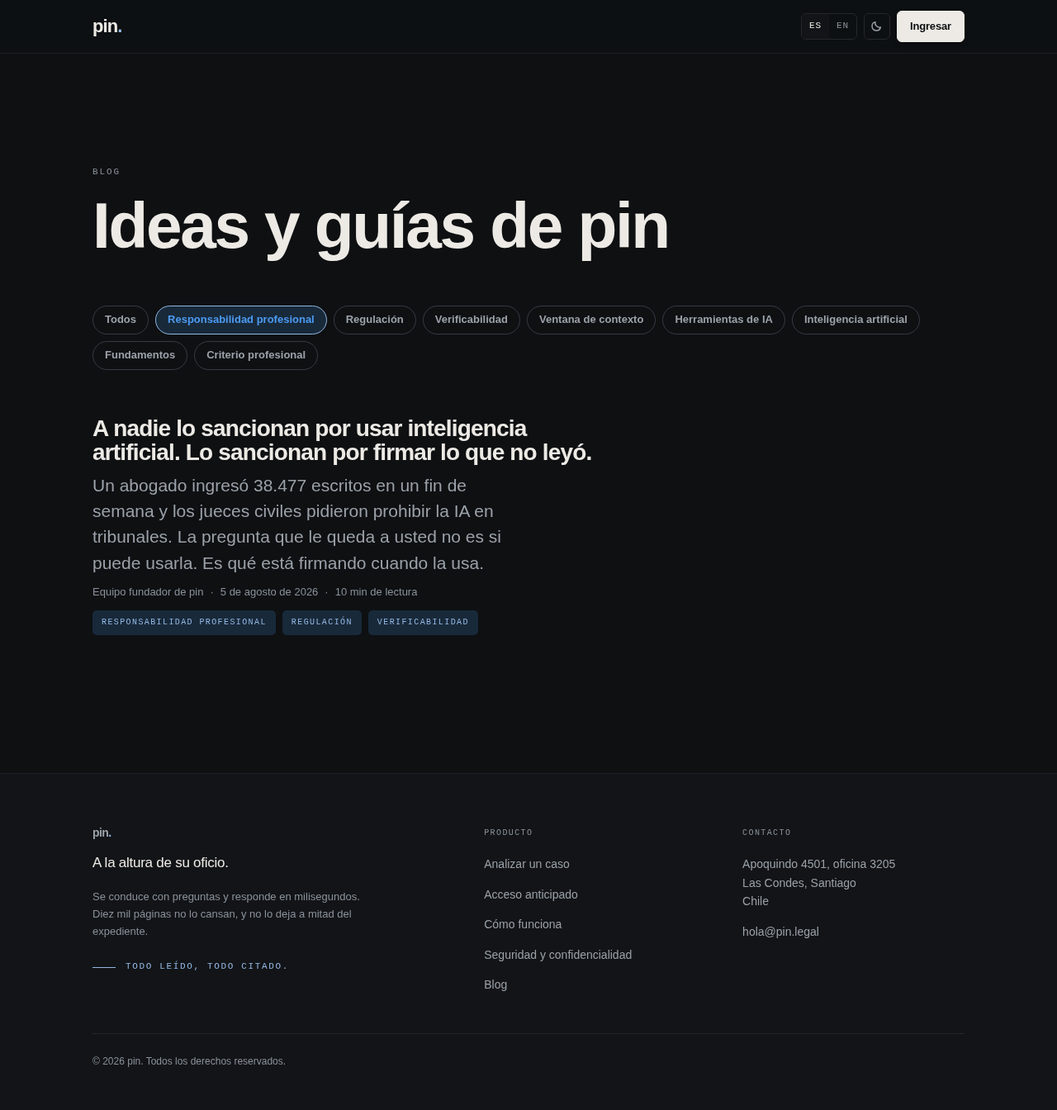
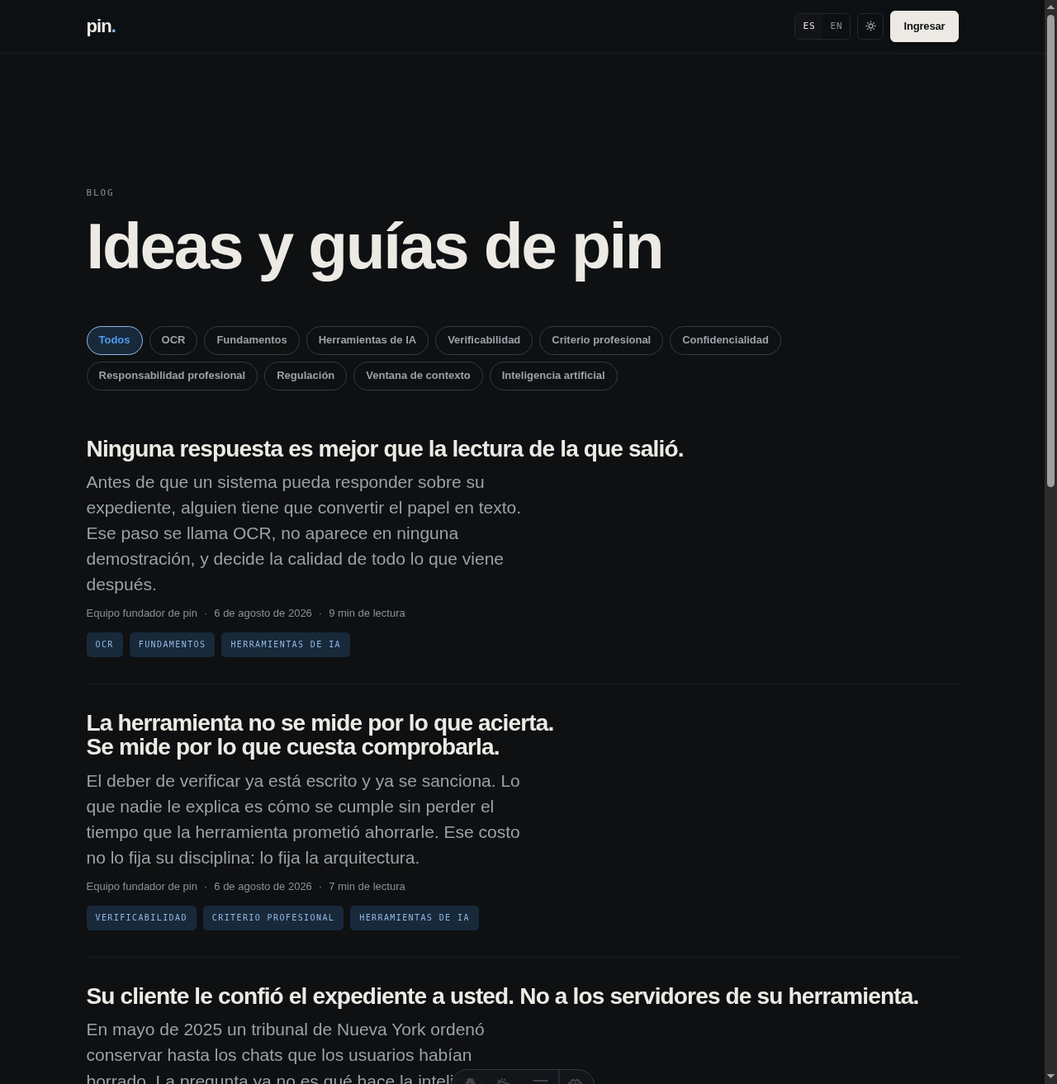
feat(blog): publica posts 4-6 — verificación, confidencialidad, OCR (I-010) (#17)
* feat(blog): publish posts 4-6 — verification, confidentiality, OCR (I-010)

Owner-authored copy, shipped as drafted (blogposts.zip). Only structural
maquetación applied to match the existing 3-post pattern: dropped the
redundant body H1 (title already renders via BlogLayout/frontmatter) and
converted internal cross-links from absolute pin-landing.github.io URLs to
the established relative ../slug/ form. No prose edited, no typos found.

Two owner-suggested tags extend the existing taxonomy: Confidencialidad
(post 5) and OCR (post 6) — both on-topic, flagged in I-010 rather than
silently added.

Adds I-010 under epic E01 (rule 12: substantial work gets an issue before
its PR).

* docs(evidence): screenshots of blog posts 4-6, listing + each post, light/dark

Committed under design/evidence/, following the blog-<slug>-es-<theme>.png
pattern from PR #14/#15. Captured against the local dev server via headless
Chrome + CDP (Emulation.setEmulatedMedia) since the claude-in-chrome
extension was unresponsive this session — a live Chrome instance already
running on this machine was silently absorbing the extension's automation
calls; screenshots use an isolated --user-data-dir instead.

* docs(planning): marca criterios de aceptación verificados en I-010

Should de la review adversarial del PR #17: los checkboxes quedaron sin
marcar pese a que gate, build y astro check pasaron (reverificado
independientemente por el revisor con exit 0).

---------

diff --git a/src/content/blog/es/como-se-lee-un-expediente-escaneado.md b/src/content/blog/es/como-se-lee-un-expediente-escaneado.md
@@ -1,0 +1,74 @@
+---
+title: "Ninguna respuesta es mejor que la lectura de la que salió."
+slug: "como-se-lee-un-expediente-escaneado"
+excerpt: "Antes de que un sistema pueda responder sobre su expediente, alguien tiene que convertir el papel en texto. Ese paso se llama OCR, no aparece en ninguna demostración, y decide la calidad de todo lo que viene después."
+publishDate: 2026-08-06
+author: "Equipo fundador de pin"
+tags: ["OCR", "Fundamentos", "Herramientas de IA"]
+draft: false
+readingMinutes: 9
+---
+
+Abra cualquier tomo de una carpeta investigativa real y mire lo que hay: un parte policial escaneado torcido, un timbre estampado encima de la fecha, una fotocopia de una fotocopia donde la tinta ya es gris, un oficio con anotaciones a mano en el margen, y de vez en cuando una foja entera dada vuelta. Ahora intente Ctrl-F.
+
+No encuentra nada porque no hay nada que encontrar. **Su expediente no es texto. Es papel fotografiado.** Para un computador, cada una de esas fojas es una imagen —una grilla de píxeles—, tan buscable como la foto de un asado. Antes de que cualquier sistema pueda responderle una sola pregunta sobre ese material, alguien tiene que convertir la imagen en texto. Ese paso tiene nombre, tiene cincuenta años de historia y no aparece en ninguna demostración comercial: se llama OCR, reconocimiento óptico de caracteres.
+
+Este artículo existe porque ese paso invisible decide la calidad de todo lo que viene después, y porque casi nadie le pregunta a su proveedor cómo lo hace. Al final va a tener la pregunta exacta que hay que hacer. Antes, conviene entender qué se está preguntando.
+
+## Cómo se mide una lectura
+
+El OCR se mide, y la métrica principal es de una honestidad brutal: la tasa de error por carácter —CER, por su sigla en inglés—. Cuántos caracteres, de cada cien, el sistema leyó mal.
+
+Los números para calibrar la intuición. Sobre texto impreso razonablemente limpio, un buen motor moderno se equivoca poco: el error queda en un dígito bajo. Sobre manuscrito —la anotación al margen, la declaración tomada a mano, la firma con fecha—, un motor clásico de OCR se derrumba: en nuestras mediciones sobre corpus judicial real, se acerca a equivocar **uno de cada dos caracteres**. No es que lea mal. Es que, para efectos prácticos, no lee.
+
+Y aquí la observación que vuelve todo esto asunto suyo y no de ingenieros: no todos los caracteres valen lo mismo. Un error de carácter en la prosa de un considerando es una molestia que el contexto repara. El mismo error en un RUT es otra persona. En una fecha, es otro plazo. En un monto, es otro delito. En un número de foja, es una cita que apunta a ninguna parte. **Los datos que a usted le importan de un expediente —nombres, fechas, cédulas, montos, fojas— son exactamente los que un error de un solo carácter destruye por completo**, porque son los datos donde el contexto no ayuda a reconstruir nada.
+
+## El error no se queda en la página
+
+Si el daño terminara en la página mal leída, sería un problema acotado. No termina ahí, y esto ya está medido con rigor académico.
+
+Un equipo presentó en 2025 un banco de pruebas —[OHRBench](https://arxiv.org/abs/2412.02592)— construido para responder una sola pregunta: ¿qué le pasa a un sistema de respuestas sobre documentos cuando el OCR que le preparó el material se equivocó? La conclusión fue categórica: evaluadas las soluciones de OCR disponibles, **ninguna resultó suficiente para construir una base de conocimiento de calidad**, y hasta las mejores arrastraron una pérdida de exactitud del orden del 14% en las respuestas finales. El error de lectura se propaga en cascada: contamina el índice, desvía la búsqueda, y llega a la respuesta convertido en otra cosa.
+
+Y esa «otra cosa» es la parte peligrosa. Porque el sistema no responde peor sobre texto mal leído. **Responde igual de fluido, igual de seguro y con la misma redacción impecable** —el [primer artículo de esta serie](../que-es-machine-learning/) explicó por qué la fluidez está garantizada y la exactitud no—. Un OCR que leyó «22.06.2004» donde el papel dice «22.08.2004» no produce un mensaje de error. Produce una cronología equivocada, contada con total naturalidad, que usted solo detecta si abre la página. La basura que entra no sale como basura. Sale como prosa.
+
+## El estándar de la industria, y sus tres defectos
+
+Lo que la industria hace por defecto es comprensible, porque es lo más simple: se elige un motor de OCR —uno—, se le pasa todo el documento, y el texto que salga es el que hay. Cuando el volumen aprieta, se contrata el OCR como servicio en la nube: las páginas se envían a la API de un tercero, que devuelve el texto. Funciona razonablemente para lo que esas herramientas fueron construidas: documentos limpios, nacidos digitales, en inglés.
+
+Contra un expediente penal chileno, ese estándar falla tres veces, y las tres fallas son de naturaleza distinta.
+
+**Falla de motor: ninguno gana en todas las páginas.** Esto lo medimos antes de decidir nada, y el resultado fue inapelable: el motor rápido y preciso en impreso se derrumba en el manuscrito; el modelo de visión que rescata el manuscrito es demasiado lento y caro para pasarle las diez mil páginas completas. Un expediente real trae ambas cosas mezcladas foja por foja. Elegir un solo motor es elegir en qué parte del expediente leer mal.
+
+**Falla de arquitectura: el OCR en la nube resuelve la lectura creando el problema del [artículo anterior](../que-pasa-con-su-expediente-cuando-lo-sube/).** Enviar las fojas, una por una, a la API de un tercero es exactamente la operación que su deber de reserva le exige mirar con lupa. Que el sobre sea página a página no cambia que el contenido completo del expediente terminó, página a página, en servidores ajenos.
+
+**Falla de honestidad: el silencio.** Es la peor de las tres. Cuando una página no se puede leer —demasiado oscura, demasiado torcida, manuscrito ilegible—, el estándar de la industria es saltarla y seguir. El sistema no miente activamente; hace algo más corrosivo: deja que usted asuma que «procesado» significa «leído». Y sobre esa asunción usted construye la confianza de que si algo importara, habría aparecido.
+
+## Lo que construimos, y por qué lo decidimos así
+
+Nuestra respuesta a las tres fallas cabe en tres decisiones, y las tres se tomaron midiendo, no opinando.
+
+**Primera: se lee por página, no por expediente.** Cada foja pasa primero por un triaje que decide su ruta. Si la página trae texto digital embebido, se toma directo: lectura perfecta y gratis. Si es impreso escaneado legible, va al motor clásico: rápido, barato, error bajo. Si es manuscrito o un escaneo pobre, escala a un modelo de visión —la tecnología cara— que en nuestras mediciones lee ese material con **la mitad del error** de un OCR corriente. Mejor, no perfecto; sobre eso volvemos enseguida. El umbral que decide cuándo una página escala no se fijó a ojo: se calibró con datos, sobre corpus judicial real, y el resultado operativo es que **cerca de ocho de cada diez páginas se leen por la ruta rápida**, mientras la fracción difícil va a una cola diferida donde la máquina cara trabaja sin bloquear al resto. Es la misma lógica con la que un estudio asigna trabajo: lo estándar al procedimiento estándar, lo difícil al especialista, y nadie espera al especialista para avanzar con lo demás.
+
+**Segunda: la procedencia se escribe desde el primer carácter.** En el momento en que un fragmento de texto nace del OCR, queda registrado de qué documento salió, de qué foja, y de qué lugar exacto dentro de la foja. El [cuarto artículo de esta serie](../como-se-verifica-una-respuesta-de-ia/) explicó por qué esto no se puede agregar después: la procedencia se guarda al leer o no existe. Por eso se guarda al leer.
+
+**Tercera: la transcripción nunca reemplaza al papel.** Todo lo anterior asume algo incómodo y cierto: el OCR se va a equivocar. Con tasas de error mayores que cero y cientos de miles de caracteres, algún RUT va a salir cambiado. La pregunta de diseño no es cómo impedirlo —nadie puede— sino cómo lograr que ese error no pueda convertirse en una afirmación que usted firme sin verla. Nuestra respuesta: cada cita abre la **imagen real de la página**, con el pasaje señalado sobre la tinta. La verificación es contra el papel, no contra nuestra lectura del papel. Si el OCR leyó mal, usted lo ve en el mismo clic con que verifica todo lo demás —y el error muere ahí, como error de lectura, en vez de viajar hasta su escrito convertido en hecho—.
+
+## El principio detrás de las tres: completitud comunicada
+
+Si tuviéramos que reducir nuestra política de OCR a una sola regla, es esta: **ninguna página se da por leída sin serlo.** El cien por ciento de las fojas termina el proceso clasificado en una de dos listas: leída —con su texto y su procedencia—, o declarada pendiente o ilegible, con su ubicación exacta, en un reporte que usted puede abrir.
+
+Puede parecer un detalle de interfaz. Es lo contrario de un detalle: es la diferencia entre dos promesas. El sistema que dice «leí todo» le está vendiendo una cobertura que no puede demostrar, y usted descubre los huecos cuando ya construyó encima. El sistema que dice «leí 9.986 fojas; estas 14 no, y son estas» le entrega algo que ningún resumen fluido reemplaza: **el mapa exacto de dónde tiene que mirar usted.** Catorce fojas se revisan a mano en una tarde. Lo que no se puede revisar es el hueco que nadie declaró.
+
+## Lo que sigue, en nuestros planes
+
+Tres frentes, en orden de importancia.
+
+El primero cierra el círculo del artículo anterior: llevar también el razonamiento —no solo la lectura y los índices, que ya corren donde el estudio decide— a modelos que se ejecutan localmente, para que exista el modo de operación totalmente aislado de red: un sistema al que se le puede desconectar el cable y sigue trabajando. El segundo es institucional más que técnico: los motores de OCR y de visión mejoran cada pocos meses, así que mantenemos un banco de pruebas propio, sobre corpus judicial real, contra el que cada candidato nuevo se mide antes de tocar el sistema —los motores rotan; la vara queda—. Y el tercero es el residuo duro: para la fracción que ninguna máquina lee bien hoy, una cola de rescate explícita, con revisión humana cuando haga falta, porque la promesa nunca fue «lo leemos todo». La promesa es que usted sabe, en todo momento y foja por foja, **qué se leyó, con qué calidad, y qué no.**
+
+## La pregunta para su proveedor
+
+No es «¿usa inteligencia artificial?» —el [primer artículo](../que-es-machine-learning/) ya estableció que eso no informa nada—. Ni siquiera es «¿qué OCR usa?», que suena técnica y se contesta con una marca.
+
+Es esta: **¿qué pasa con las páginas que no puede leer?**
+
+Escuche la respuesta con atención, porque solo hay tres posibles. Si le dicen «las leemos todas», acaba de aprender que los huecos existen y nadie se los va a declarar. Si le responden con un porcentaje de precisión, pregunte sobre qué material se midió —impreso limpio en inglés no es su expediente—. Y si le contestan «quedan listadas, aquí está el reporte, y cada cita abre la imagen de la página para que usted compruebe la lectura», entonces está frente a alguien que entendió lo mismo que usted entendió leyendo esta serie: que en este oficio no se firma la prosa. Se firma lo que consta en la foja.

diff --git a/src/content/blog/es/que-pasa-con-su-expediente-cuando-lo-sube.md b/src/content/blog/es/que-pasa-con-su-expediente-cuando-lo-sube.md
@@ -1,0 +1,64 @@
+---
+title: "Su cliente le confió el expediente a usted. No a los servidores de su herramienta."
+slug: "que-pasa-con-su-expediente-cuando-lo-sube"
+excerpt: "En mayo de 2025 un tribunal de Nueva York ordenó conservar hasta los chats que los usuarios habían borrado. La pregunta ya no es qué hace la inteligencia artificial con su expediente. Es dónde queda, quién lo retiene y bajo qué reglas."
+publishDate: 2026-08-06
+author: "Equipo fundador de pin"
+tags: ["Confidencialidad", "Responsabilidad profesional", "Regulación"]
+draft: false
+readingMinutes: 9
+---
+
+El 13 de mayo de 2025, una jueza federal de Nueva York ordenó a OpenAI conservar de manera indefinida todos los registros de salida de ChatGPT, [incluidos los chats que los usuarios ya habían borrado](https://openai.com/index/response-to-nyt-data-demands/). La orden se dictó en el litigio de derechos de autor que The New York Times mantiene contra la empresa, y alcanzó a los usuarios de las versiones gratuita, Plus, Pro y Team, y a la API sin acuerdo de retención cero. La empresa apeló, perdió, y la obligación rigió hasta el 26 de septiembre de 2025 —lo capturado en esa ventana sigue almacenado—. En noviembre, [el tribunal confirmó](https://thecyberexpress.com/openai-court-order-nyt-copyright-dispute/) que 20 millones de esas conversaciones, desidentificadas, pasaran a manos de los demandantes.
+
+Deténgase en la mecánica, porque es la parte que le concierne. Millones de personas apretaron «borrar» creyendo que borrar borraba. No era un hecho: era una promesa del proveedor, escrita en unos términos de servicio que casi nadie leyó. Y las promesas del proveedor ceden ante la orden de un tribunal, en un litigio que no es el suyo, en una jurisdicción que no es la suya, por un conflicto que no tiene nada que ver con usted. **Lo que usted sube deja de estar bajo su control en el momento en que termina la carga.** Todo lo demás —la retención, el borrado, el acceso de terceros— es cláusula, no física.
+
+Un detalle más, y es el que ordena todo este artículo: la versión Enterprise y los contratos con retención cero quedaron fuera de la orden. La protección existía. **No venía con la marca. Venía con el contrato** —y con la arquitectura que hay detrás del contrato—.
+
+## El deber que usted ya tenía, antes de que existiera la nube
+
+Nada de esto lo agarra sin reglas. Al contrario: pocas obligaciones del oficio son más viejas que esta.
+
+El secreto profesional no es una cortesía ni un hábito de discreción: es un deber cuyo titular es el cliente, no usted. El Código de Ética Profesional le dedica su artículo 7° y una sección entera —los artículos 46 a 64—, y el Código Penal, en su artículo 231, sanciona al abogado que descubre los secretos de su cliente. La carpeta investigativa que usted maneja es, además, una de las piezas más sensibles que existen en el sistema: declaraciones de imputados, víctimas y testigos, peritajes médicos y psicológicos, datos de ubicación, antecedentes de terceros que ni siquiera son parte.
+
+Por eso el deber de reserva no es un escrúpulo. Es exposición: suya, de su estudio y de las personas cuyos datos viajan dentro de esa carpeta —personas que jamás consintieron en que su declaración terminara en los servidores de una empresa de software—.
+
+Lo nuevo no es el deber. Lo nuevo es que la herramienta de moda le pide, como primer paso y con la mejor interfaz del mundo, exactamente lo que el deber le prohíbe hacer a la ligera: entregarle la carpeta a un tercero.
+
+## Leer los términos de servicio ahora es ejercicio profesional
+
+La [guía del Colegio de Abogados](https://colegioabogados.cl/guia-sobre-uso-de-sistemas-de-ia-por-abogados-julio-2026-002/) de julio de 2026 —la misma del [artículo anterior de esta serie](../es-legal-usar-ia-para-trabajar/)— dedica al punto una sección que casi no tuvo prensa, y que en la práctica es la más exigente del documento.
+
+Antes de usar una plataforma, dice, el abogado debe evaluar sus condiciones de servicio, sus políticas de privacidad, dónde y cuánto tiempo se almacenan los datos, y si pueden ser reutilizados o conocidos por terceros. Debe considerar, en particular, si el material se empleará para entrenar modelos. Debe abstenerse de ingresar antecedentes confidenciales en sistemas que no ofrezcan protecciones apropiadas, y no debe ingresarlos en plataformas de uso público general sin seguridad efectiva de que la información no será reutilizada. Y cuando exista riesgo de revelación, exige el consentimiento expreso e informado del cliente: [no basta la autorización general del contrato de servicios](https://actualidadjuridica.doe.cl/colegio-de-abogados-publica-guia-para-el-uso-responsable-de-inteligencia-artificial/) — el cliente debe conocer el sistema específico, sus riesgos y las alternativas disponibles. La [Formal Opinion 512 de la American Bar Association](https://www.americanbar.org/content/dam/aba/administrative/professional_responsibility/ethics-opinions/aba-formal-opinion-512.pdf) llegó dos años antes al mismo lugar por el mismo camino: el deber de confidencialidad obliga a entender qué hace el proveedor con los datos antes de dárselos, y en ciertos casos, a pedirle permiso al cliente primero.
+
+Traducido a la práctica, la guía convirtió la letra chica en materia de su oficio. La debida diligencia sobre una herramienta de inteligencia artificial ya no es una tarea de su encargado de sistemas: es un análisis jurídico de un contrato de adhesión, hecho por usted, con su matrícula comprometida en el resultado. Y hay un test que resume todo el análisis en una escena: **¿le contaría a su cliente, con nombre y apellido del proveedor, dónde va a quedar su carpeta?** La guía dice que, en ciertos casos, no solo debería poder contárselo: debe hacerlo, y obtener su consentimiento. Si imaginarse esa conversación le produce incomodidad, ya tiene el resultado del análisis.
+
+Vale la pena notar qué salvaguardas menciona la guía como apropiadas, porque la lista es corta y concreta: «la no retención de información, la ejecución local y los entornos cerrados del estudio». Guarde esa frase. Volvemos a ella en un momento.
+
+## Y en cuatro meses, además, es ley
+
+Hasta aquí, ética profesional. Desde el 1 de diciembre de 2026, también regulación con multas.
+
+Ese día entra en plena vigencia la [Ley 21.719](https://www.araya.cl/2026/06/nueva-ley-de-proteccion-de-datos-personales-en-chile-que-es-por-que-es-clave-y-como-deben-prepararse-las-empresas/), la reforma más profunda que ha tenido la protección de datos personales en Chile: crea una Agencia con facultades reales de fiscalización, exige notificar las brechas de seguridad dentro de 72 horas, y contempla multas de hasta 20.000 UTM —con reincidencias que pueden llegar al 4% de los ingresos anuales—. Un estudio jurídico es responsable del tratamiento de los datos que administra, y un expediente penal es un concentrado de la categoría más protegida de todas: datos sensibles de personas naturales, muchas de ellas terceros sin ninguna relación con su cliente.
+
+Junte las piezas y el cuadro queda nítido. Subir una carpeta investigativa a una plataforma que la retiene en servidores compartidos, bajo términos que permiten reutilizarla, ya era un problema ético en julio. En diciembre es, además, un evento regulatorio esperando ocurrir: si esa plataforma sufre una brecha —o recibe una orden de un tribunal extranjero, como en mayo de 2025—, el responsable ante la Agencia y ante su cliente no es el proveedor. Es usted.
+
+## Lo que decidimos nosotros, y por qué
+
+Hasta aquí este artículo habló de reglas. Esta sección habla de nosotros, porque en este tema nos parece que corresponde mostrar las cartas.
+
+Cuando diseñamos nuestro sistema, la confidencialidad no entró como una función de la lista, ni como un argumento de venta que se agrega al final. Entró como la restricción que ordenó todas las demás decisiones, por una razón que a esta altura del artículo es evidente: **para un penalista, la confidencialidad no es una preferencia. Es la condición de posibilidad.** Su secreto profesional le prohíbe casi todo lo que el mercado le ofrece; una herramienta que no resuelve eso primero no es una herramienta peor: es una herramienta que usted no puede usar.
+
+De esa restricción salió una regla de arquitectura, y de la regla salió todo lo demás: **el expediente no viaja hacia el software. El software viaja hacia el expediente.** El sistema corre en una nube dedicada exclusivamente a su estudio, o directamente dentro de él, en sus propias máquinas. Nunca en una nube compartida con otros clientes. La lectura, los índices y la búsqueda se ejecutan donde el estudio decida; nada de su material se usa para entrenar modelos, de nadie, nunca; del material recibido queda constancia escrita, y al cierre del caso se devuelve o se destruye según usted instruya. Y cuando una pregunta abierta requiere un modelo de lenguaje, lo que viaja son los fragmentos recuperados que responden esa pregunta —nunca la carpeta—, por una puerta que el estudio enciende de forma explícita, no que viene encendida de fábrica.
+
+¿Por qué arquitectura y no política? Porque son cosas de naturaleza distinta, y la diferencia se vio completa en mayo de 2025. Una política de privacidad es una promesa: se cambia con un correo de «actualizamos nuestros términos», y cede ante la orden de un tribunal. Una arquitectura donde el expediente nunca salió del estudio no promete nada, y por eso no tiene nada que incumplir: **no se puede ordenar la retención de lo que nunca se retuvo, ni filtrar desde una nube compartida lo que nunca entró en una.** La confidencialidad que depende de la buena conducta continua de un tercero es una hipótesis; la que depende de dónde están físicamente los datos es un hecho verificable.
+
+Y aquí vuelve la frase que le pedimos guardar. Las salvaguardas que la guía del Colegio menciona como apropiadas —no retención, ejecución local, entornos cerrados del estudio— no las leímos como una sugerencia a evaluar. Las leímos como lo que son: la lista de requisitos de diseño. La guía se publicó cuando nuestro sistema ya estaba construido, y el hecho de que ambas listas coincidan casi palabra por palabra no es casualidad ni mérito: es lo que pasa cuando el punto de partida es el mismo deber.
+
+## Las dos preguntas antes de pagar
+
+Esta serie le dejó ya una pregunta para hacer frente a cualquier oferta: ¿puedo abrir la página de la que salió esta respuesta? Este artículo le suma la simétrica, la que se hace antes, en la misma reunión: **¿dónde queda mi expediente cuando pregunto, y qué retiene usted cuando termino?**
+
+Un proveedor serio contesta las dos en una frase cada una, sin adjetivos, y las deja por escrito. Uno que contesta con la palabra «encriptado», con un certificado de seguridad, o con la seguridad de que «eso no pasa», le está contestando otra pregunta. La encriptación protege el viaje de los datos; no cambia dónde terminan ni quién puede ser obligado a entregarlos. Y usted ya sabe, desde mayo de 2025, que «eso no pasa» es exactamente lo que se decía hasta que pasó.
+
+El expediente de su cliente va a terminar en alguna parte. La única decisión que sigue siendo enteramente suya es en cuál.

diff --git a/src/content/blog/es/como-se-verifica-una-respuesta-de-ia.md b/src/content/blog/es/como-se-verifica-una-respuesta-de-ia.md
@@ -1,0 +1,70 @@
+---
+title: "La herramienta no se mide por lo que acierta. Se mide por lo que cuesta comprobarla."
+slug: "como-se-verifica-una-respuesta-de-ia"
+excerpt: "El deber de verificar ya está escrito y ya se sanciona. Lo que nadie le explica es cómo se cumple sin perder el tiempo que la herramienta prometió ahorrarle. Ese costo no lo fija su disciplina: lo fija la arquitectura."
+publishDate: 2026-08-06
+author: "Equipo fundador de pin"
+tags: ["Verificabilidad", "Criterio profesional", "Herramientas de IA"]
+draft: false
+readingMinutes: 7
+---
+
+El [artículo anterior de esta serie](../es-legal-usar-ia-para-trabajar/) terminó donde terminan todas las reglas que se están escribiendo sobre esto: puede usar inteligencia artificial, no puede delegarle el juicio, y responde usted por lo que firma. La [guía del Colegio de Abogados](https://colegioabogados.cl/guia-sobre-uso-de-sistemas-de-ia-por-abogados-julio-2026-002/) lo llama deber de verificación, y la Corte Suprema ya suspendió a una abogada [por no cumplirlo](https://www.pjud.cl/prensa-y-comunicaciones/noticias-del-poder-judicial/145652).
+
+Queda la pregunta que ningún regulador contesta, porque no es jurídica sino operativa: ¿cómo, exactamente, se verifica una respuesta de inteligencia artificial? ¿Y cuánto cuesta hacerlo?
+
+La segunda pregunta importa más que la primera, y casi nadie la hace. Porque el deber de verificar es suyo, indelegable y ya está resuelto. **El costo de cumplirlo, en cambio, no lo fija su disciplina. Lo fija la herramienta que usted eligió.** Ese costo es la única cifra que decide si la tecnología le está ahorrando trabajo o solo se lo está cambiando de lugar.
+
+## Tres cosas que parecen verificación y no lo son
+
+Conviene despejarlas primero, porque las tres se venden como tal.
+
+**Preguntarle al sistema si está seguro.** «¿Estás seguro de esa cita?» produce una respuesta segura, porque producir respuestas seguras es lo que el sistema hace. Si leyó el [primer artículo de esta serie](../que-es-machine-learning/) tiene el vocabulario: toda respuesta es una inferencia, una predicción de qué texto corresponde a continuación. Preguntarle al modelo por su propia exactitud le pide una predicción sobre otra predicción. No agrega un hecho a la conversación; agrega otro párrafo plausible.
+
+**Ponerle un segundo modelo al primero.** Es la misma operación con más presupuesto. Dos sistemas del mismo tipo, entrenados sobre material parecido, coincidiendo en un texto plausible, producen exactamente eso: coincidencia, no comprobación. La guía del Colegio lo excluyó en una sola línea —no sirve la verificación que efectúa el mismo sistema u otro similar—, y esa línea, que parece técnica, es la más importante del documento.
+
+**El puntaje de confianza.** Un número entre cero y uno junto a cada afirmación se ve como rigor. Pero mire quién lo emite: el mismo sistema que emitió la afirmación. Es el proveedor calificándose su propia prueba. Puede ser un dato útil para ordenar el trabajo; no es, en ningún sentido que le sirva ante un tribunal, una verificación.
+
+Lo que las tres tienen en común: todo ocurre dentro del sistema. Y la verificación es, por definición, un acto externo. Exige un objeto que no sea texto generado. En un expediente ese objeto existe, tiene numeración con valor procesal y usted lo conoce desde su primer día de oficio: la página.
+
+## El método cabe en cuatro pasos
+
+No hay más misterio que este, y conviene escribirlo una vez para no volver a discutirlo.
+
+**Uno: descomponer.** Una respuesta de inteligencia artificial no se verifica como bloque; se verifica afirmación por afirmación. «El testigo declaró el 12 de marzo» es una afirmación. «Esa declaración contradice lo dicho a fojas 2.044» son dos.
+
+**Dos: exigirle la fuente a cada una.** Cada afirmación debe llegar apuntando al lugar del que salió: qué documento, qué página, idealmente qué lugar dentro de la página. Y aquí la regla dura, la que ordena todo lo demás: **una afirmación que llega sin fuente no se verifica. Se descarta**, o se degrada a hipótesis que usted investigará por su cuenta, por otro camino. Salir a buscarle respaldo a una frase que el sistema no respaldó es hacer el trabajo del sistema, con su tiempo.
+
+**Tres: abrir.** No la transcripción: la página. La imagen real, con la tinta, el timbre y el margen. Se lee el pasaje, se confirma que dice lo que la respuesta afirma que dice, en el contexto en que lo dice.
+
+**Cuatro: decidir.** Y este paso es suyo por completo, porque aquí la máquina ya no tiene nada que aportar. Que la cita exista y diga lo que se afirma es una cosa; qué significa para su teoría del caso, si la favorece o la debilita, si se invoca o se guarda, es otra. **La máquina puede garantizar la procedencia. No puede garantizar la pertinencia.** Son dos controles distintos, y solo el primero es automatizable. El segundo tiene otro nombre: es su oficio.
+
+Léalo de nuevo y notará qué desapareció del método: releer el expediente. Verificar no es volver a leer las diez mil fojas. Es abrir las páginas exactas de las que la respuesta afirma haber salido. Esa diferencia —entre releer y abrir— es toda la economía del asunto.
+
+## La aritmética que decide si la herramienta le sirvió
+
+Ahora los números, porque están medidos y porque son los que un socio debería mirar antes de firmar cualquier suscripción.
+
+Las herramientas legales de investigación con IA —las serias, las que se venden como confiables— alucinan entre el [17% y el 33% de las veces](https://onlinelibrary.wiley.com/doi/full/10.1111/jels.12413) según cuál. El artículo anterior ya extrajo la consecuencia: una tasa de error así no es un margen tolerable, es una obligación de revisar el 100% de lo que el sistema produce. No hay atajo muestral: usted no sabe en cuál 17% le tocó el error.
+
+Si la revisión es del 100%, el ahorro real de la herramienta se reduce a una sola resta: lo que le costaría hacer el trabajo usted, menos lo que le cuesta verificar todo lo que la herramienta hizo. Y esa resta cambia de signo según un único factor: **cuánto cuesta verificar una afirmación**.
+
+Con la fuente apuntada, verificar una afirmación son segundos: un clic, la página abierta, el pasaje a la vista, confirmado o descartado. Cien afirmaciones verificadas caben en una mañana, y el [ahorro de tiempo que sí está medido](https://papers.ssrn.com/sol3/papers.cfm?abstract_id=4626276) —entre 12% y 32% en trabajo jurídico real— queda en su bolsillo.
+
+Sin la fuente apuntada, verificar una afirmación es buscarla. Y buscar una frase en un expediente de decenas de miles de fojas es, en la práctica, releer: las mismas [quinientas a mil cien horas](../que-es-machine-learning/) de las que la herramienta prometía salvarlo, ahora gastadas en auditar a la herramienta. **Una respuesta correcta sin fuente le cuesta más verificarla que una respuesta con fuente que resultó incorrecta.** El error apuntado se descarta en segundos; el acierto sin apuntar se paga en horas.
+
+Ahí está la tesis completa de este artículo, y es una tesis de compra: la herramienta no se mide por su tasa de acierto, que usted no puede auditar, sino por su costo de comprobación, que usted puede medir en la primera demostración, con cronómetro.
+
+## Por qué esto no se arregla con buena voluntad
+
+Un lector razonable objetará: ¿y no puede la herramienta simplemente agregar las citas al final? La respuesta es no, y la razón es arquitectónica, no comercial.
+
+El [segundo artículo de esta serie](../por-que-ninguna-herramienta-le-sirvio/) lo explicó desde el otro lado: una herramienta de conversación empuja el material por la ventana de contexto, lo trunca y lo comprime, y cuando usted pide la cita, el modelo hace lo único que sabe hacer: escribirla. Una cita escrita por un modelo es una predicción más —plausible, bien formateada y sin ninguna relación garantizada con el papel—. La procedencia no se puede reconstruir al final con buena redacción. **O se guardó en el momento de leer —este fragmento salió de este documento, de esta página, de este lugar de la página— o no existe.** Todo lo demás es una cita con formato de cita.
+
+Por eso el costo de verificación no es una función del esfuerzo del proveedor sino de su diseño. Y por eso se detecta antes de pagar, con la pregunta de siempre y un agregado: ¿puedo abrir la página de la que salió esta respuesta? — y ¿cuántos segundos me toma?
+
+## Lo que queda de su lado
+
+Nada de esto reduce su responsabilidad; la ordena. El deber de verificación es suyo, personal e indelegable, y ningún proveedor —incluido el que construye lo que usted está leyendo— puede asumirlo por usted. Lo que sí se puede exigir, y conviene exigir por escrito, es que la herramienta deje el deber en el precio de un clic: cada afirmación con su página, cada página con su imagen, cada verificación en segundos.
+
+Porque al final la cuenta es una sola. El estándar que ya rige —el del Colegio, el de la Corte, el de todas las reglas que el mundo lleva tres años escribiendo— no le pide que desconfíe de la tecnología. Le pide algo más simple y más viejo: que no firme lo que no comprobó. La única pregunta abierta es cuánto le va a costar comprobar. Y esa, por primera vez en esta serie, no es una pregunta para usted. Es una pregunta para su proveedor.

diff --git a/planning/issues/I-010-blogposts-4-5-6.md b/planning/issues/I-010-blogposts-4-5-6.md
@@ -1,0 +1,76 @@
+---
+id: I-010
+type: feature
+status: staging
+impact: high
+cost: low
+epic: E01
+created: 2026-08-06
+---
+
+# Blog posts 4–6 — verification method, confidentiality/data residency, OCR fidelity
+
+`impact: high` — three more posts in the same trilogy-continuation E01 has been running
+since I-002/I-003/I-008: each answers the operational question the previous post left
+open (how do you actually verify, where does the file go, how is it read in the first
+place).
+`cost: low` — content only, infra already built by I-001. No schema, route or layout
+change; tags/filter/share already shipped by I-006/I-007.
+
+## Context
+
+Owner supplied the three drafts verbatim (`blogposts.zip`, delivered via chat), each
+with a suggested-metadata comment block (slug, title, meta-description, tags, author,
+date, reading time). Owner approval for publication is the delivery of the drafts for
+this purpose, matching the I-008 precedent (owner's request to publish IS the approval).
+
+## Scope
+
+- `src/content/blog/es/como-se-verifica-una-respuesta-de-ia.md` (post 4) — how a
+  professional actually verifies an AI answer, and why the cost of verification (not the
+  accuracy rate) is the number that decides whether a tool helped.
+- `src/content/blog/es/que-pasa-con-su-expediente-cuando-lo-sube.md` (post 5) — data
+  residency and confidentiality: what happens to an uploaded case file, tied to the May
+  2025 OpenAI/NYT retention order and Chile's Ley 21.719 (effective Dec 2026).
+- `src/content/blog/es/como-se-lee-un-expediente-escaneado.md` (post 6) — OCR fidelity:
+  why the read step decides everything downstream, CER, and the three failure modes of
+  the industry-standard single-engine approach.
+- Maquetación only: frontmatter mapped 1:1 from each draft's suggested-metadata block
+  (title, excerpt = meta-description, publishDate 2026-08-06, author, tags, draft:false,
+  readingMinutes). Redundant body `# H1` dropped (duplicate of frontmatter title,
+  matches existing 3-post pattern) and internal cross-links converted from absolute
+  `jjsutil.github.io/pin-landing/...` URLs to the established relative `../slug/` form.
+  No prose edited.
+
+## Tags — two taxonomy additions
+
+Owner's own suggested tags for posts 5 and 6 introduce two tags not in the existing set
+(`Responsabilidad profesional, Regulación, Verificabilidad, Ventana de contexto,
+Herramientas de IA, Inteligencia artificial, Fundamentos, Criterio profesional`):
+
+- **Confidencialidad** (post 5) — no existing tag covers data residency/retention.
+- **OCR** (post 6) — no existing tag covers document-reading fidelity.
+
+Both are on-topic for their post and don't overlap an existing tag; adopted rather than
+substituted with a poorer-fit existing one. Flagged here per repo convention rather than
+silently extended.
+
+## Anti-scope
+
+- Not a pin pitch beyond the architectural principles already established in I-002/I-003
+  (posts 5 and 6 do describe pin's own confidentiality/OCR design decisions, as owner-
+  written — this mirrors I-008's non-pitch bar: no price, no capability claim beyond what
+  the post's own argument requires).
+- No English versions (E01 anti-scope: ES only for v1).
+- No new routes/schema/tag-filter changes — I-006/I-007 infra reused as-is.
+
+## Acceptance criteria
+
+- [x] Owner-authored copy shipped verbatim (delivery of drafts = approval, I-008
+      precedent); typos/deviations from the draft listed in the PR body.
+- [x] Tags reused from the existing set where possible; two additions flagged above.
+- [x] `npx astro check` exits 0.
+- [x] `npm run build` exits 0.
+- [x] `scripts/check-gates.sh --base origin/main` run bare, exit 0.
+- [x] All 3 posts render at `/blog` (listing) and their own `/blog/<slug>` route locally.
+- [x] Visual evidence committed under `design/evidence/` (light + dark).
